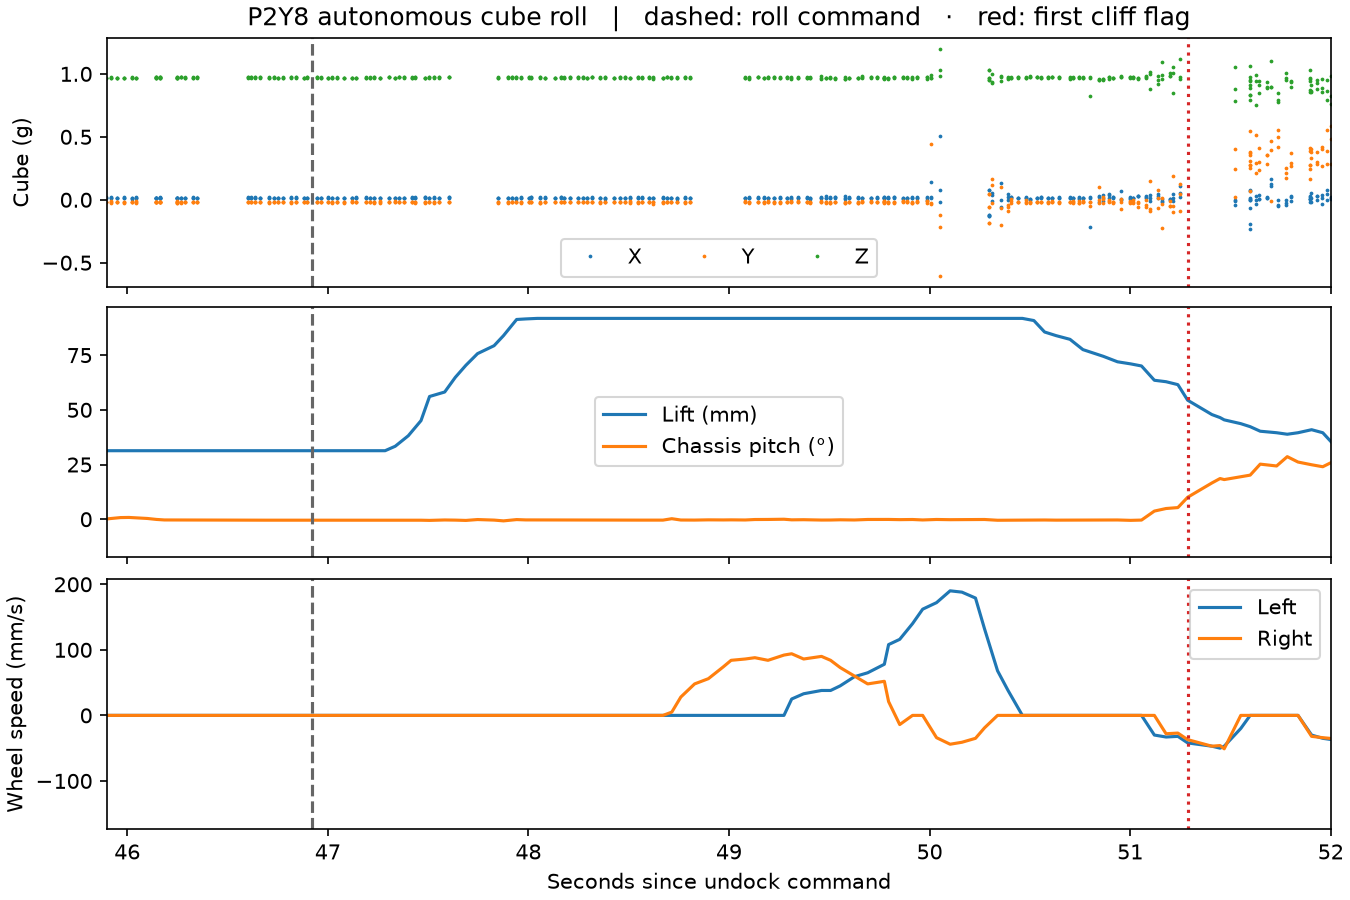
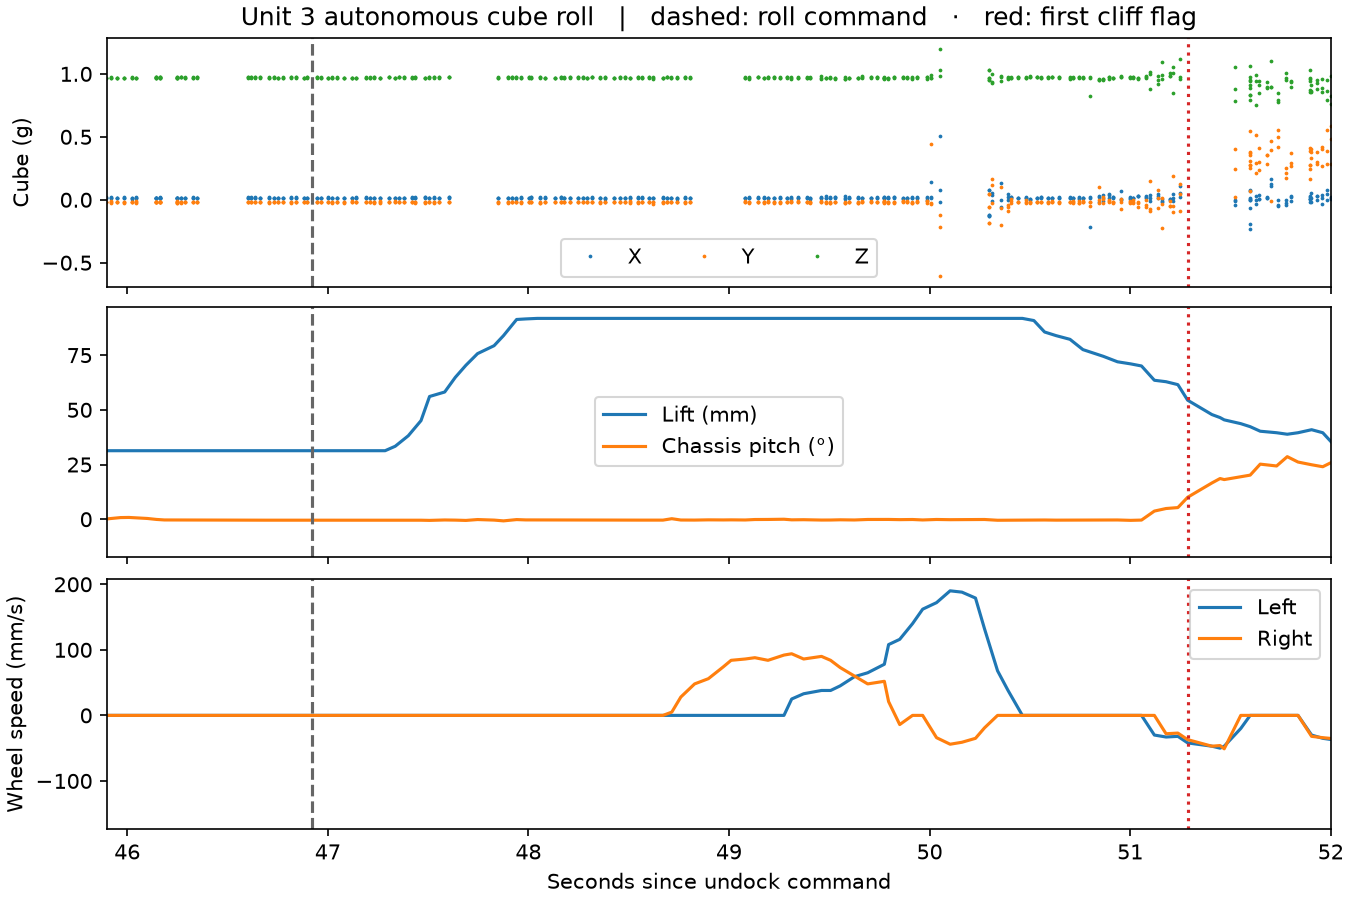
Use public unit label in roll evidence

Changed region(s): [[0.1867, 0.0, 0.6844, 0.0311], [0.7156, 0.0, 0.9022, 0.0311]]

diff --git a/evidence/unit3-wheelstand/R8/plot_roll.py b/evidence/unit3-wheelstand/R8/plot_roll.py
@@ -28,5 +28,5 @@ for event in rows:
         for ax in axes: ax.axvline(float(event["sec"]),color=".4",ls=":" if event["kind"]=="end" else "--")
 axes[2].set_xlim(45.9,52.0)
 for ax in axes: ax.axvline(51.286772,color="tab:red",ls=":")
-axes[0].set_title("P2Y8 autonomous cube roll   |   dashed: roll command   ·   red: first cliff flag")
+axes[0].set_title("Unit 3 autonomous cube roll   |   dashed: roll command   ·   red: first cliff flag")
 fig.savefig(p/"roll-traces.png",dpi=150)

diff --git a/evidence/unit3-wheelstand/R8/README.md b/evidence/unit3-wheelstand/R8/README.md
@@ -1,6 +1,6 @@
 # Autonomous cube roll on the shelf
 
-After a native undock P2Y8 acquired a cube glyph at 95.4 mm and issued roll_cube with zero retries. The previous approach (R7) missed the glyph and made no contact. R7 supplies a search-only comparison.
+After a native undock Unit 3 acquired a cube glyph at 95.4 mm and issued roll_cube with zero retries. The previous approach (R7) missed the glyph and made no contact. R7 supplies a search-only comparison.
 
 The SDK reported taps at 3.285 and 4.059 seconds after the roll command. Cube acceleration magnitude peaked at 1.43 g. The first reported cliff flag arrived at 4.363 seconds with SDK pitch at 10.1°. Pitch reached 31.3°. The guard interrupted the action before an SDK result arrived.
 
